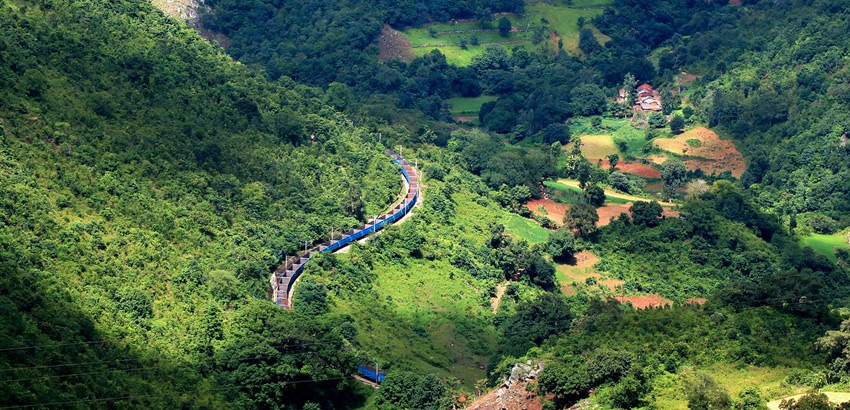
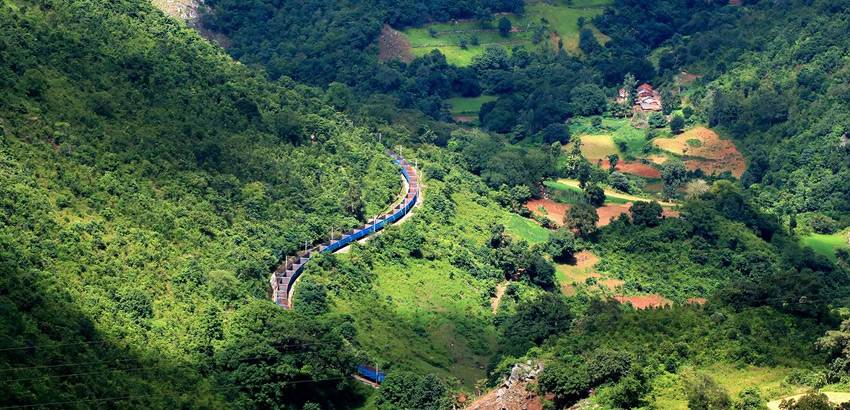
Compress 29 website images below 100 KB each
Resize and JPEG-compress the flagged destination, hotel, temple, vehicle, and hero photos. Reduce their combined size from 21.28 MB to 2.59 MB, update intrinsic dimensions, and record image transformations in photo credits.

Validation: all 29 files are below 100,000 bytes; sample images visually inspected; production build passed.

diff --git a/src/lib/image-dimensions.ts b/src/lib/image-dimensions.ts
@@ -6,8 +6,8 @@ const dimensions: Record<string, { width: number; height: number }> = {
     "height": 410
   },
   "/images/vizag-araku-annavaram/borra.jpg": {
-    "width": 1200,
-    "height": 750
+    "width": 867,
+    "height": 542
   },
   "/images/vizag-araku-annavaram/vizag.jpg": {
     "width": 850,
@@ -30,8 +30,8 @@ const dimensions: Record<string, { width: number; height: number }> = {
     "height": 532
   },
   "/images/lambasingi-hotels/brundavanam-0.jpg": {
-    "width": 1024,
-    "height": 768
+    "width": 740,
+    "height": 555
   },
   "/images/lambasingi-hotels/brundavanam-1.jpg": {
     "width": 962,
@@ -62,8 +62,8 @@ const dimensions: Record<string, { width: number; height: number }> = {
     "height": 800
   },
   "/images/vadapalli/vadapalli.jpg": {
-    "width": 1600,
-    "height": 898
+    "width": 1156,
+    "height": 649
   },
   "/images/vadapalli/annavaram.jpg": {
     "width": 555,
@@ -74,20 +74,20 @@ const dimensions: Record<string, { width: number; height: number }> = {
     "height": 768
   },
   "/images/destinations/maredumilli.jpg": {
-    "width": 6000,
-    "height": 3152
+    "width": 983,
+    "height": 517
   },
   "/images/destinations/papikondalu.jpg": {
-    "width": 2560,
-    "height": 1920
+    "width": 1156,
+    "height": 867
   },
   "/images/destinations/jagdalpur.jpg": {
-    "width": 2387,
-    "height": 1394
+    "width": 983,
+    "height": 574
   },
   "/images/destinations/deomali.jpg": {
-    "width": 4032,
-    "height": 1860
+    "width": 1600,
+    "height": 738
   },
   "/images/araku-hotels/2-0.jpg": {
     "width": 720,
@@ -118,8 +118,8 @@ const dimensions: Record<string, { width: number; height: number }> = {
     "height": 853
   },
   "/images/araku-hotels/6-0.jpg": {
-    "width": 1600,
-    "height": 1200
+    "width": 836,
+    "height": 626
   },
   "/images/araku-hotels/1-0.jpg": {
     "width": 800,
@@ -138,12 +138,12 @@ const dimensions: Record<string, { width: number; height: number }> = {
     "height": 682
   },
   "/images/araku-hotels/7-0.jpg": {
-    "width": 1024,
-    "height": 682
+    "width": 870,
+    "height": 580
   },
   "/images/araku-hotels/5-0.jpg": {
-    "width": 1280,
-    "height": 886
+    "width": 1088,
+    "height": 753
   },
   "/images/araku-hotels/5-1.jpg": {
     "width": 3154,
@@ -162,28 +162,28 @@ const dimensions: Record<string, { width: number; height: number }> = {
     "height": 1281
   },
   "/images/vizag-hotels/8-0.jpg": {
-    "width": 1920,
-    "height": 1280
+    "width": 1156,
+    "height": 771
   },
   "/images/vizag-hotels/10-1.jpg": {
     "width": 5760,
     "height": 3840
   },
   "/images/vizag-hotels/10-0.jpg": {
-    "width": 5760,
-    "height": 3840
+    "width": 1600,
+    "height": 1067
   },
   "/images/vizag-hotels/2-0.jpg": {
-    "width": 1024,
-    "height": 683
+    "width": 870,
+    "height": 581
   },
   "/images/vizag-hotels/2-1.jpg": {
     "width": 1920,
     "height": 1280
   },
   "/images/vizag-hotels/4-0.jpg": {
-    "width": 1600,
-    "height": 1067
+    "width": 983,
+    "height": 655
   },
   "/images/vizag-hotels/4-1.jpg": {
     "width": 1600,
@@ -194,20 +194,20 @@ const dimensions: Record<string, { width: number; height: number }> = {
     "height": 600
   },
   "/images/vizag-hotels/6-0.jpg": {
-    "width": 2880,
-    "height": 1920
+    "width": 1600,
+    "height": 1067
   },
   "/images/vizag-hotels/1-1.jpg": {
     "width": 1280,
     "height": 853
   },
   "/images/vizag-hotels/1-0.jpg": {
-    "width": 1280,
-    "height": 720
+    "width": 1088,
+    "height": 612
   },
   "/images/vizag-hotels/3-0.jpg": {
-    "width": 1600,
-    "height": 1067
+    "width": 1156,
+    "height": 771
   },
   "/images/vizag-hotels/3-1.jpg": {
     "width": 1600,
@@ -218,20 +218,20 @@ const dimensions: Record<string, { width: number; height: number }> = {
     "height": 1063
   },
   "/images/vizag-hotels/7-0.jpg": {
-    "width": 1600,
-    "height": 1063
+    "width": 1360,
+    "height": 904
   },
   "/images/pancharama/somarama.jpg": {
     "width": 601,
     "height": 450
   },
   "/images/pancharama/kumararama.jpg": {
-    "width": 1280,
-    "height": 1117
+    "width": 786,
+    "height": 686
   },
   "/images/pancharama/draksharama.jpg": {
-    "width": 1704,
-    "height": 2272
+    "width": 867,
+    "height": 1156
   },
   "/images/pancharama/amararama.jpg": {
     "width": 640,
@@ -254,15 +254,15 @@ const dimensions: Record<string, { width: number; height: number }> = {
     "height": 774
   },
   "/images/bus-services/miniBus.jpg": {
-    "width": 1200,
-    "height": 1600
+    "width": 626,
+    "height": 836
   },
   "/images/bus-services/coach.jpg": {
     "width": 1200,
     "height": 554
   }
 };
-dimensions[hero] = {"width": 1920, "height": 1088};
+dimensions[hero] = {"width": 1156, "height": 655};
 
 export function imageDimensions(source: string) {
   const path = source.replace(/^https?:\/\/[^/]+/, "").split(/[?#]/)[0]!;

diff --git a/src/components/site.tsx b/src/components/site.tsx
@@ -547,7 +547,7 @@ export function Footer() {
           <a className="underline" href="https://commons.wikimedia.org/wiki/File:MAREDUMILLI_-_waterfalls.jpg">Maredumilli: S. Sri Harsha</a>;{" "}
           <a className="underline" href="https://commons.wikimedia.org/wiki/File:The_Chitrakote_Falls.jpg">Chitrakote Falls: Shaswat Nimesh</a>;{" "}
           <a className="underline" href="https://commons.wikimedia.org/wiki/File:Deomali_hilltop.jpg">Deomali: BubunTalk (exposure adjustment by R8cocin8)</a>.{" "}
-          <a className="underline" href="https://creativecommons.org/licenses/by-sa/4.0/">CC BY-SA 4.0</a>. Photos cropped to fit cards.
+          <a className="underline" href="https://creativecommons.org/licenses/by-sa/4.0/">CC BY-SA 4.0</a>. Photos resized, compressed and cropped to fit cards.
         </p>
       </details>
     </footer>
